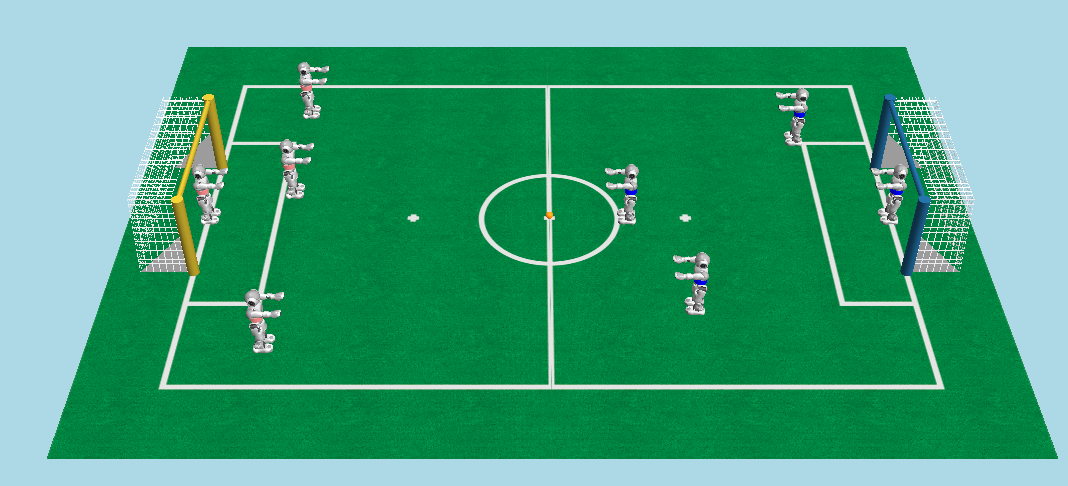
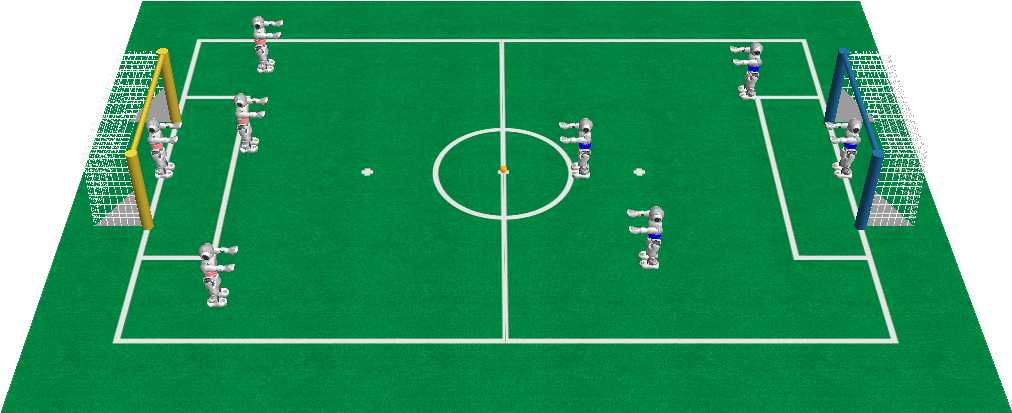
Improved figures. Deleted unused figures. Ignored temporary files.

diff --git a/SPL-Rules.tex b/SPL-Rules.tex
@@ -84,11 +84,10 @@ The soccer field is built on a total carpet area of length \TotalLength and widt
 \caption{Scale diagram of entire field (dimensions in mm).} \label{fig:field_dim}
 \end{figure}
 
-\begin{figure}[htp]
+\begin{figure}[t!]
 \begin{center}
 \leavevmode
-\includegraphics[width=0.8\columnwidth]{figs/goals2010_2.png}\\
-%\vspace{10pt}
+\includegraphics[width=0.4\columnwidth]{figs/goals2010_2.png}\\
 \includegraphics[width=0.8\columnwidth]{figs/goal_with_dims_top.png}
 \caption{Dimensions of the goal, viewed from above and from the side}
 \label{fig:goal_dimensions}
@@ -119,10 +118,10 @@ The colors of the soccer field are shown in Figure~\ref{fig:field_color}. All it
 
 \end{itemize}
 
-\begin{figure}[htp]
+\begin{figure}[t]
 \begin{center}
 \leavevmode
-\includegraphics[width=0.5\columnwidth]{figs/goal_2010_back.png}
+\includegraphics[width=0.5\columnwidth]{figs/goal_2010_back.png}\qquad
 \includegraphics[width=0.4\columnwidth]{figs/goal_2010_front.png}
 \caption{Appearance of the yellow goal. Notice that the support triangles are white.}
 \label{fig:goal_colors}
